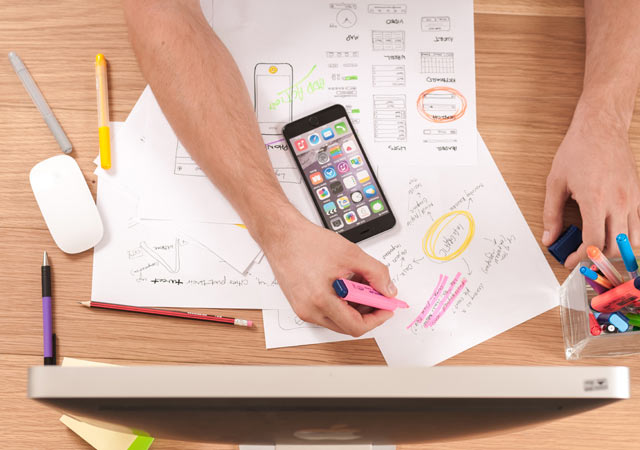
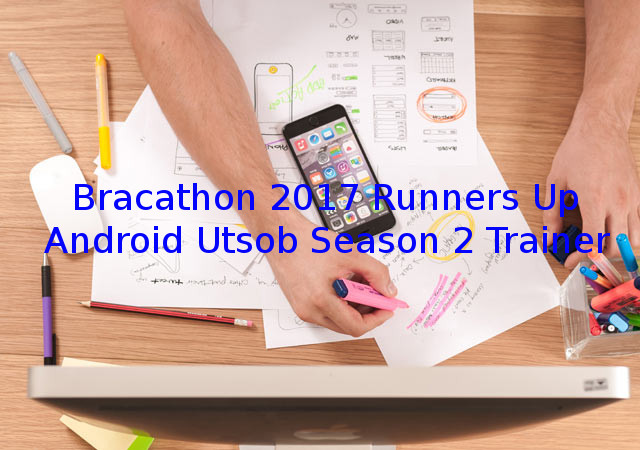
Initial commit

diff --git a/index.html b/index.html
@@ -258,12 +258,12 @@ Smartphone Compatible web template, free web designs for Nokia, Samsung, LG, Son
             <div class="skill-agile">
                 <div class="col-sm-4 abt-gd-left text-center">
                     <div id="demo-pie-1" class="pie-title-center" data-percent="80"> <span class="pie-value"></span> </div>
-                    <h4>Android</h4>
+                    <h4>Bootstrap</h4>
                 </div>
 
                 <div class="col-sm-4 abt-gd-left text-center">
                     <div id="demo-pie-3" class="pie-title-center" data-percent="60"> <span class="pie-value"></span> </div>
-                    <h4>Web</h4>
+                    <h4>MVC</h4>
                 </div>
 
                 <div class="col-sm-4 abt-gd-left text-center">
@@ -396,7 +396,7 @@ Smartphone Compatible web template, free web designs for Nokia, Samsung, LG, Son
                         <a class="cm-overlay" href="images/8.jpg">
                             <img src="images/8.jpg" alt=" " class="img-responsive">
                             <div class="overlay">
-                                <h4>Hachathon 2016</h4>
+                                <!--                                <h4>Runners Up in Bracathon2017 and Trainer at BRACU Android Workshop</h4>-->
 
                             </div>
                         </a>
